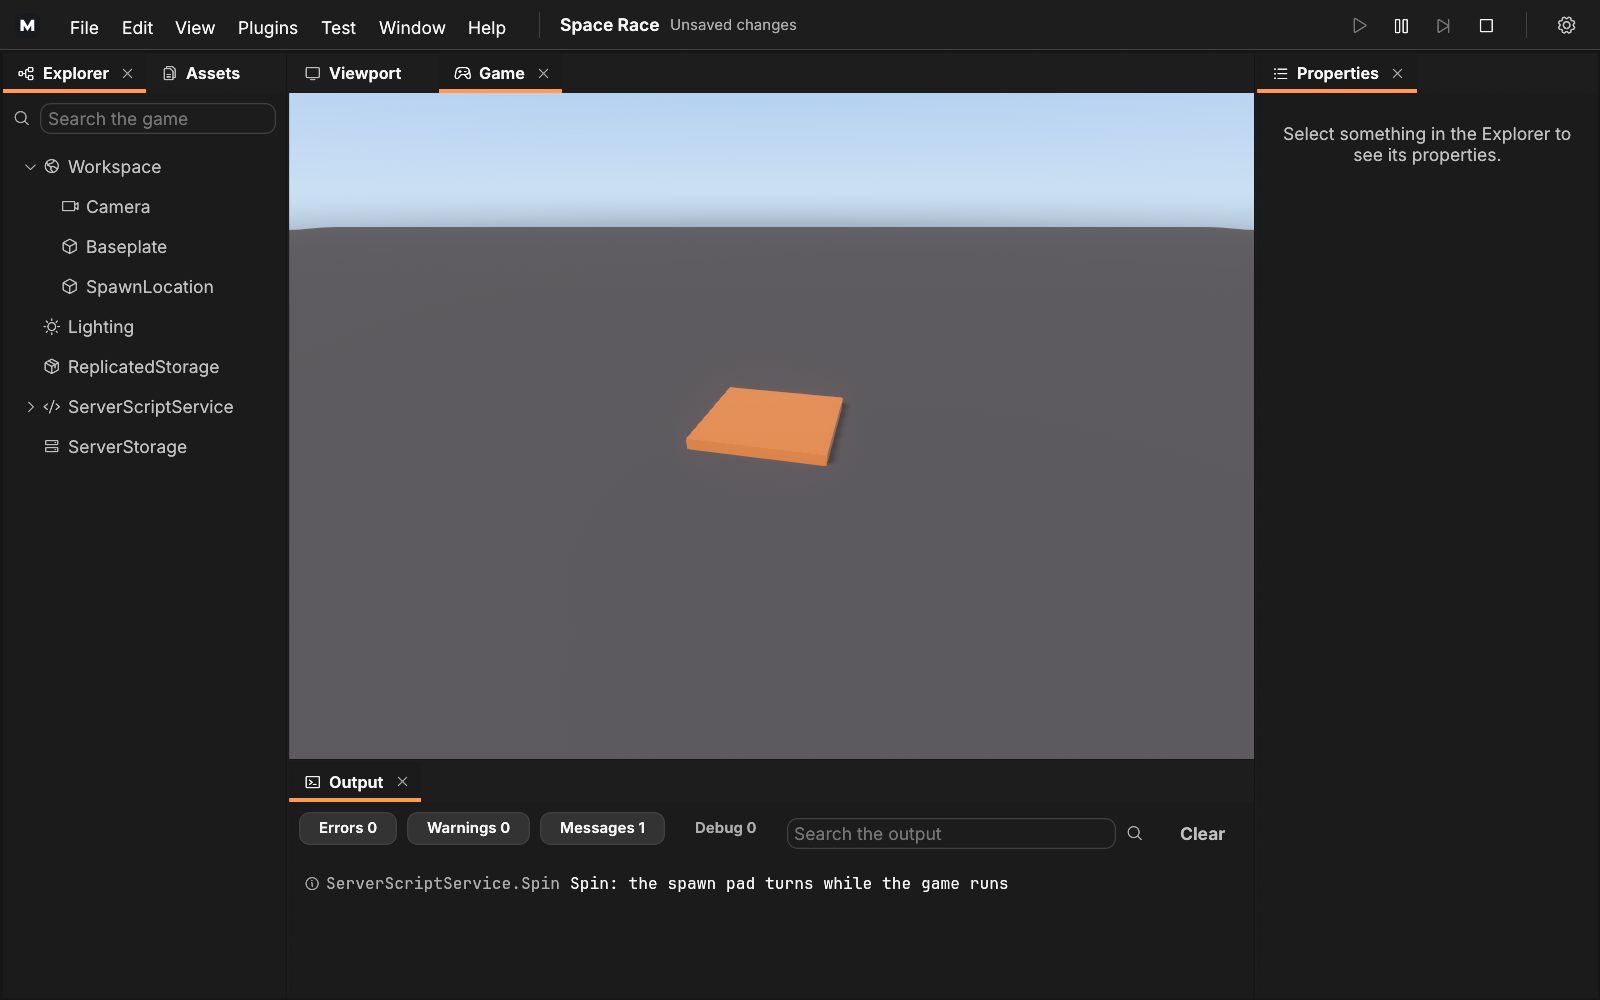
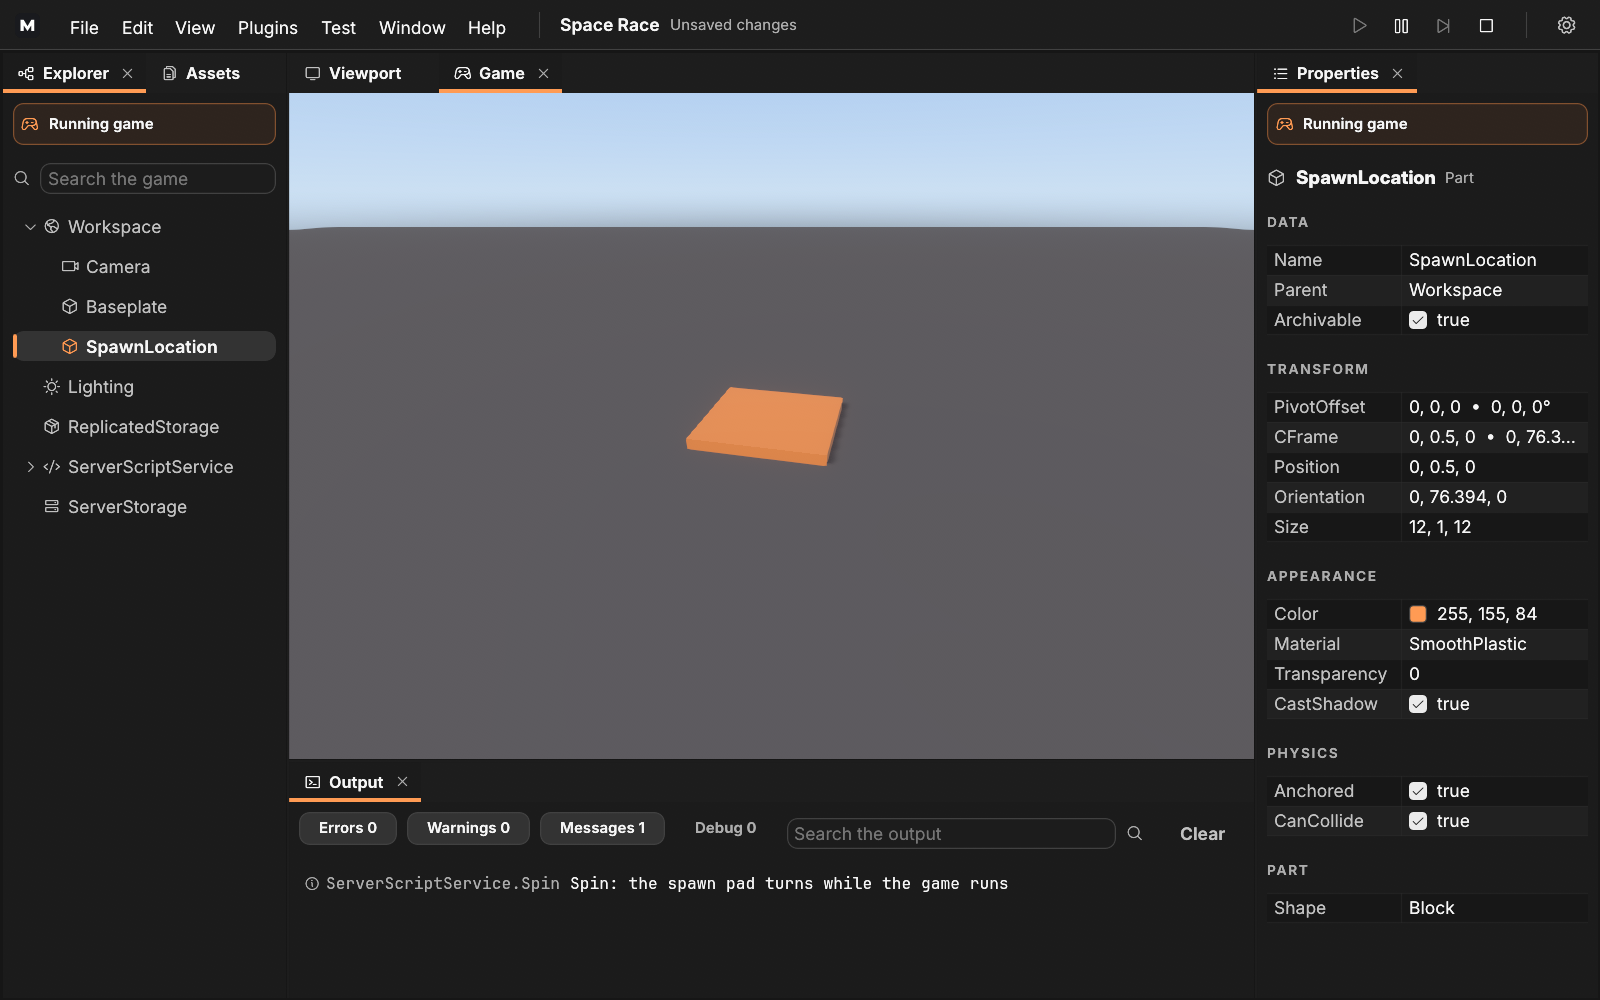
studio: live editing while playing (Explorer, Properties) (#248) (#253)
ADR 0010 §5: while a game runs, the Explorer and Properties show and edit the
running game, so a change applies to it at once and Stop throws it away.

- EditorState::scene: the scene the panels read, the editor's or the running
  game's, each with its own selection and Explorer state. The Explorer and
  Properties use it; Stop finds the editor's as they were.
- The selection is carried into the session by scene id
  (SceneIds::instance, new in metallic_project) and revealed in the game's
  Explorer.
- A "Running game" banner tops both panels while they show the game, and
  Properties redraws every frame then, so its values are live.
- Properties is still read-only (ADR 0009, until undo); property editing will
  reach the game through the same scene with no Play-specific work. ADR 0010
  notes this.
- Tests: SceneIds::instance on a saved and loaded copy; a kittest where the
  selection follows into the game, the Explorer shows what only the game has
  (a script's value), a change through the scene renames it in the game's tree,
  and Stop restores the editor's tree and selection. The Game tab screenshot
  shows the live panels.

diff --git a/apps/studio/src/app/mod.rs b/apps/studio/src/app/mod.rs
@@ -2329,6 +2329,80 @@ mod tests {
         assert!(harness.state().studio.is_playing());
     }
 
+    // Live editing while playing (#248).
+
+    #[test]
+    fn while_playing_the_explorer_and_properties_show_the_running_game() {
+        let mut harness = editing(settings_file("editor-live", None), "Live Game");
+        harness.set_size(egui::vec2(1280.0, 900.0));
+        add_play_script(&mut harness);
+        settle(&mut harness);
+        harness.get_by_role_and_label(Role::TreeItem, "Baseplate").click();
+        settle(&mut harness);
+        let editor_selection = harness.state().studio.editor().unwrap().selection;
+        assert!(
+            harness.query_by_label_contains("Running game").is_none(),
+            "no banner before Play"
+        );
+
+        // Play: the selection comes along (by scene id), Properties shows the game's Baseplate, and the Explorer
+        // shows what only the running game has: the script's Frames value.
+        harness.key_press(Key::F5);
+        settle(&mut harness);
+        assert_eq!(
+            harness.query_all_by_label_contains("Running game").count(),
+            2,
+            "Explorer and Properties"
+        );
+        {
+            let studio = &mut harness.state_mut().studio;
+            let editor = studio.editor_mut().unwrap();
+            let scene = editor.scene();
+            assert!(scene.playing);
+            let selected = scene.selection.expect("carried into the game");
+            assert_eq!(scene.dm.name(selected).unwrap(), "Baseplate");
+            // The game's own id, not the editor's.
+            let session = editor.play.as_ref().unwrap();
+            assert!(session.player.engine().data_model().contains(selected));
+        }
+        harness.get_by_label("TRANSFORM");
+        let storage = harness.get_by_role_and_label(Role::TreeItem, "ReplicatedStorage");
+        storage.click();
+        settle(&mut harness);
+        // Expanding goes through the caret; the row click selects it, and Properties follows the game.
+        {
+            let scene = harness.state_mut().studio.editor_mut().unwrap().scene();
+            let storage = scene.selection.expect("ReplicatedStorage selected");
+            assert_eq!(scene.dm.name(storage).unwrap(), "ReplicatedStorage");
+            scene.explorer.set_expanded(storage, true);
+        }
+        settle(&mut harness);
+        harness.get_by_role_and_label(Role::TreeItem, "Frames");
+        assert!(
+            harness.state().studio.editor().unwrap().selection == editor_selection,
+            "the editor's selection is untouched"
+        );
+
+        // A change made to the game through the scene the panels edit is the game's at once.
+        {
+            let editor = harness.state_mut().studio.editor_mut().unwrap();
+            let scene = editor.scene();
+            let storage = scene.selection.unwrap();
+            let frames = scene.dm.find_first_child(storage, "Frames", false).unwrap().unwrap();
+            scene.dm.set_name(frames, "Ticks".into()).unwrap();
+        }
+        settle(&mut harness);
+        harness.get_by_role_and_label(Role::TreeItem, "Ticks");
+
+        // Stop: the editor's tree, selection and Explorer are as they were.
+        harness.key_press_modifiers(Modifiers::SHIFT, Key::F5);
+        settle(&mut harness);
+        assert!(harness.query_by_label_contains("Running game").is_none());
+        assert!(harness.query_by_role_and_label(Role::TreeItem, "Ticks").is_none());
+        assert_eq!(harness.state().studio.editor().unwrap().selection, editor_selection);
+        harness.get_by_label("TRANSFORM");
+    }
+
     // The input hand-off to the game (#247).
 
     /// The lines the game printed since the session began.
@@ -3248,11 +3322,15 @@ mod tests {
                  end)\n",
             )
             .unwrap();
+        let workspace = editor.dm.service(class("Workspace")).unwrap();
+        let pad = editor.dm.find_first_child(workspace, "SpawnLocation", false).unwrap();
+        editor.select(pad);
         studio.menu_action(MenuAction::Play);
         assert!(studio.is_playing(), "{:?}", studio.notice());
         for _ in 0..40 {
             offscreen.frame(&mut studio);
         }
+        // #248: the Explorer and Properties show the running game, the spawn pad selected in it.
         write_png(&out.join("246-game-tab.png"), offscreen.read());
     }
 

diff --git a/apps/studio/src/editor/play.rs b/apps/studio/src/editor/play.rs
@@ -13,6 +13,7 @@ use std::time::Duration;
 
 use egui::{Rect, TextureId};
 use metallic_engine::metallic_classes;
+use metallic_engine::metallic_core::{DataModel, Id};
 use metallic_engine::metallic_project::{SceneIds, load_scene, save_scene};
 use metallic_engine::metallic_render::settings::GraphicsSettings;
 use metallic_engine::{RunState, project_sources};
@@ -20,6 +21,7 @@ use metallic_player::Player;
 
 use super::EditorState;
 use crate::logging::{LogBuffer, ScriptOutput};
+use crate::panels::explorer::ExplorerState;
 
 /// A game session: the Player running the copy of the scene, and the Game tab's view of it.
 pub struct PlaySession {
@@ -32,6 +34,23 @@ pub struct PlaySession {
     pub view: GameView,
     /// A number no other session of this Studio had: the shell's texture belongs to one session.
     pub number: u64,
+    /// The selection in the running game (live editing, ADR 0010 §5): the editor's carried in by scene id at Play.
+    pub selection: Option<Id>,
+    /// The Explorer's state over the running game.
+    pub explorer: ExplorerState,
+}
+
+/// The scene the Explorer and Properties show and edit: the editor's, or the running game's while a session runs
+/// (live editing, ADR 0010 §5). Each has its own selection and Explorer state, so Stop finds the editor's as they were.
+pub struct Scene<'a> {
+    /// The game.
+    pub dm: &'a mut DataModel,
+    /// What is selected in it.
+    pub selection: &'a mut Option<Id>,
+    /// The Explorer's expanded instances and search over it.
+    pub explorer: &'a mut ExplorerState,
+    /// Whether it is the running game's.
+    pub playing: bool,
 }
 
 impl std::fmt::Debug for PlaySession {
@@ -86,13 +105,44 @@ impl EditorState {
         let player =
             Player::hosted(game, sources, graphics, ScriptOutput::new(log)).map_err(|error| error.to_string())?;
         log::info!("play: started {}", self.name());
+        // The selection comes along by scene id, revealed in the game's Explorer.
+        let selection = self
+            .selection
+            .and_then(|id| self.scene_ids.get(id))
+            .and_then(|scene_id| loaded.ids.instance(scene_id));
+        let dm = player.engine().data_model();
+        let mut explorer = ExplorerState::new(dm);
+        if let Some(id) = selection {
+            explorer.reveal(dm, id);
+        }
         self.play = Some(PlaySession {
             player,
             ids: loaded.ids,
             view: GameView::default(),
             number,
+            selection,
+            explorer,
         });
         Ok(())
+    }
+
+    /// The scene the Explorer and Properties show and edit: the running game's while a session runs, else the
+    /// editor's (ADR 0010 §5).
+    pub fn scene(&mut self) -> Scene<'_> {
+        match self.play.as_mut() {
+            Some(session) => Scene {
+                dm: session.player.engine_mut().data_model_mut(),
+                selection: &mut session.selection,
+                explorer: &mut session.explorer,
+                playing: true,
+            },
+            None => Scene {
+                dm: &mut self.dm,
+                selection: &mut self.selection,
+                explorer: &mut self.explorer,
+                playing: false,
+            },
+        }
     }
 
     /// Ends the session: the game is dropped, and the editor's scene is as it was before Play. Returns whether one

diff --git a/apps/studio/src/panels/explorer.rs b/apps/studio/src/panels/explorer.rs
@@ -10,7 +10,7 @@ use std::collections::HashSet;
 use egui::{Align2, Color32, CornerRadius, FontId, Rect, Role, ScrollArea, Sense, Ui, WidgetInfo, pos2, vec2};
 use metallic_engine::metallic_core::{DataModel, Id};
 
-use super::{class_icon, empty_note, icon, ids, matches_words, search_box};
+use super::{class_icon, empty_note, icon, ids, matches_words, playing_banner, search_box};
 use crate::dock::{Panel, PanelContext, Zone};
 use crate::keymap::Context;
 use crate::theme::tokens::{radius, size, space, text};
@@ -188,10 +188,14 @@ impl Panel for Explorer {
     }
 
     fn ui(&self, ui: &mut Ui, cx: &mut PanelContext<'_>) {
-        let editor = &mut *cx.editor;
+        // The running game's tree while one runs (live editing, ADR 0010 §5).
+        let editor = cx.editor.scene();
+        if editor.playing {
+            playing_banner(ui);
+        }
         search_box(ui, &mut editor.explorer.query, "Search the game");
         ui.add_space(space::S3);
-        let rows = rows(&editor.dm, &editor.explorer);
+        let rows = rows(editor.dm, editor.explorer);
         if rows.is_empty() {
             let line = if editor.explorer.query.trim().is_empty() {
                 "The game is empty.".to_owned()
@@ -218,8 +222,8 @@ impl Panel for Explorer {
         let mut toggled = None;
         scroll.show_rows(ui, row_height, rows.len(), |ui, range| {
             for row in &rows[range] {
-                let selected = editor.selection == Some(row.id);
-                match row_ui(ui, &editor.dm, *row, selected, searching) {
+                let selected = *editor.selection == Some(row.id);
+                match row_ui(ui, editor.dm, *row, selected, searching) {
                     RowAction::None => {}
                     RowAction::Select => clicked = Some(row.id),
                     RowAction::Toggle => toggled = Some(*row),
@@ -230,7 +234,7 @@ impl Panel for Explorer {
             editor.explorer.set_expanded(row.id, !row.expanded);
         }
         if let Some(id) = clicked {
-            editor.selection = Some(id);
+            *editor.selection = Some(id);
         }
     }
 }

diff --git a/apps/studio/src/panels/mod.rs b/apps/studio/src/panels/mod.rs
@@ -178,6 +178,41 @@ pub(crate) fn search_box(ui: &mut Ui, query: &mut String, hint: &str) -> bool {
     .inner
 }
 
+/// The strip at the top of the Explorer and Properties while they show the running game (live editing, ADR 0010
+/// §5): the accent's soft tint, the game controller, and what Stop does.
+pub(crate) fn playing_banner(ui: &mut Ui) {
+    let colors = current_colors(ui.ctx());
+    let p = colors.palette;
+    egui::Frame::new()
+        .fill(colors.accent.gamma_multiply(0.14))
+        .stroke(egui::Stroke::new(
+            crate::theme::tokens::size::BORDER,
+            colors.accent.gamma_multiply(0.5),
+        ))
+        .corner_radius(egui::CornerRadius::same(crate::theme::tokens::radius::ITEM))
+        .inner_margin(egui::Margin::symmetric(space::S3 as i8, space::S2 as i8))
+        .show(ui, |ui| {
+            ui.set_width(ui.available_width());
+            ui.horizontal(|ui| {
+                ui.label(
+                    RichText::new(icon::GAME_CONTROLLER.to_string())
+                        .font(fonts::named(fonts::ICONS, text::BODY))
+                        .color(colors.accent),
+                );
+                ui.add(
+                    Label::new(
+                        RichText::new("Running game")
+                            .font(fonts::named(fonts::STRONG, text::SMALL))
+                            .color(p.text),
+                    )
+                    .truncate(),
+                )
+                .on_hover_text("These are the running game's. Stop puts the scene back as it was before Play.");
+            });
+        });
+    ui.add_space(space::S3);
+}
+
 /// A quiet line in the middle of an empty panel.
 pub(crate) fn empty_note(ui: &mut Ui, line: &str) {
     let p = current_colors(ui.ctx()).palette;

diff --git a/apps/studio/src/panels/properties.rs b/apps/studio/src/panels/properties.rs
@@ -12,7 +12,7 @@ use egui::{
 };
 use metallic_engine::metallic_core::{DataModel, Id, PropFlags, PropId, ResolvedProp, Value};
 
-use super::{class_icon, empty_note, icon, ids};
+use super::{class_icon, empty_note, icon, ids, playing_banner};
 use crate::dock::{Panel, PanelContext, Zone};
 use crate::keymap::Context;
 use crate::settings::window::section_label;
@@ -169,12 +169,18 @@ impl Panel for Properties {
     }
 
     fn ui(&self, ui: &mut Ui, cx: &mut PanelContext<'_>) {
-        let editor = &*cx.editor;
-        let Some(id) = editor.selection.filter(|&id| editor.dm.contains(id)) else {
+        // The running game's values while one runs, live (ADR 0010 §5).
+        let scene = cx.editor.scene();
+        if scene.playing {
+            playing_banner(ui);
+            // The values change as the game runs.
+            ui.ctx().request_repaint();
+        }
+        let dm: &_ = scene.dm;
+        let Some(id) = scene.selection.filter(|&id| dm.contains(id)) else {
             empty_note(ui, "Select something in the Explorer to see its properties.");
             return;
         };
-        let dm = &editor.dm;
         let p = current_colors(ui.ctx()).palette;
         ui.horizontal(|ui| {
             let icon = dm

diff --git a/crates/project/src/scene/tests.rs b/crates/project/src/scene/tests.rs
@@ -565,3 +565,19 @@ fn mesh_parts_keep_their_asset_ids() {
         Ok(Value::Vector3(Vector3::new(2.0, 3.0, 4.0)))
     );
 }
+
+#[test]
+fn scene_ids_say_which_instance_of_a_copy_is_which_of_the_original() {
+    let mut original = game();
+    let workspace = service(&original, "Workspace");
+    let part = new_in(&mut original, "Part", workspace, "Door");
+    let mut ids = SceneIds::new();
+    let text = save_scene(&original, &mut ids).unwrap().text;
+    let scene_id = ids.get(part).expect("the part was saved");
+    assert_eq!(ids.instance(scene_id), Some(part));
+
+    let (copy, loaded) = load(&text);
+    let twin = loaded.ids.instance(scene_id).expect("the copy has it");
+    assert_eq!(copy.name(twin).unwrap(), "Door");
+    assert_eq!(loaded.ids.instance(u64::MAX), None);
+}

diff --git a/crates/project/src/scene/mod.rs b/crates/project/src/scene/mod.rs
@@ -112,6 +112,15 @@ impl SceneIds {
         self.ids.get(&instance).copied()
     }
 
+    /// The instance with scene id `scene_id`, if one has it: which instance of a loaded copy is which instance of the
+    /// scene it was saved from (Studio's Play, ADR 0010). Looks through every id.
+    pub fn instance(&self, scene_id: u64) -> Option<Id> {
+        self.ids
+            .iter()
+            .find(|(_, id)| **id == scene_id)
+            .map(|(instance, _)| *instance)
+    }
+
     /// How many instances have an id.
     pub fn len(&self) -> usize {
         self.ids.len()

diff --git a/apps/studio/src/editor/mod.rs b/apps/studio/src/editor/mod.rs
@@ -19,7 +19,7 @@ use crate::panels::explorer::ExplorerState;
 use crate::panels::output::OutputState;
 use crate::viewport::ViewportState;
 pub use open::{AssetRow, Opened, Opening, STEPS};
-pub use play::{GameView, PlaySession};
+pub use play::{GameView, PlaySession, Scene};
 
 /// The open project, its game, and the panels' state.
 pub struct EditorState {

diff --git a/docs/adr/0010-play-in-studio.md b/docs/adr/0010-play-in-studio.md
@@ -105,6 +105,11 @@ Forge and Roblox. The selection is carried into the session by scene id and come
 The Viewport's tab keeps showing the editor's scene, unchanged, from the editor camera. Edits are discarded on Stop
 (§2); keeping them is not planned.
 
+As built (#248): the panels read one "scene" (`EditorState::scene`), the editor's or the running game's, each with its
+own selection and Explorer state, under a "Running game" banner. Properties is still read-only (ADR 0009, until undo
+lands), so what can be edited live today is what the panels can edit at all; property editing will reach the game
+through the same scene with no Play-specific work.
+
 ### 6. Slices
 
 1. #245: `metallic_player` embeddable in a host's viewport (§1).
